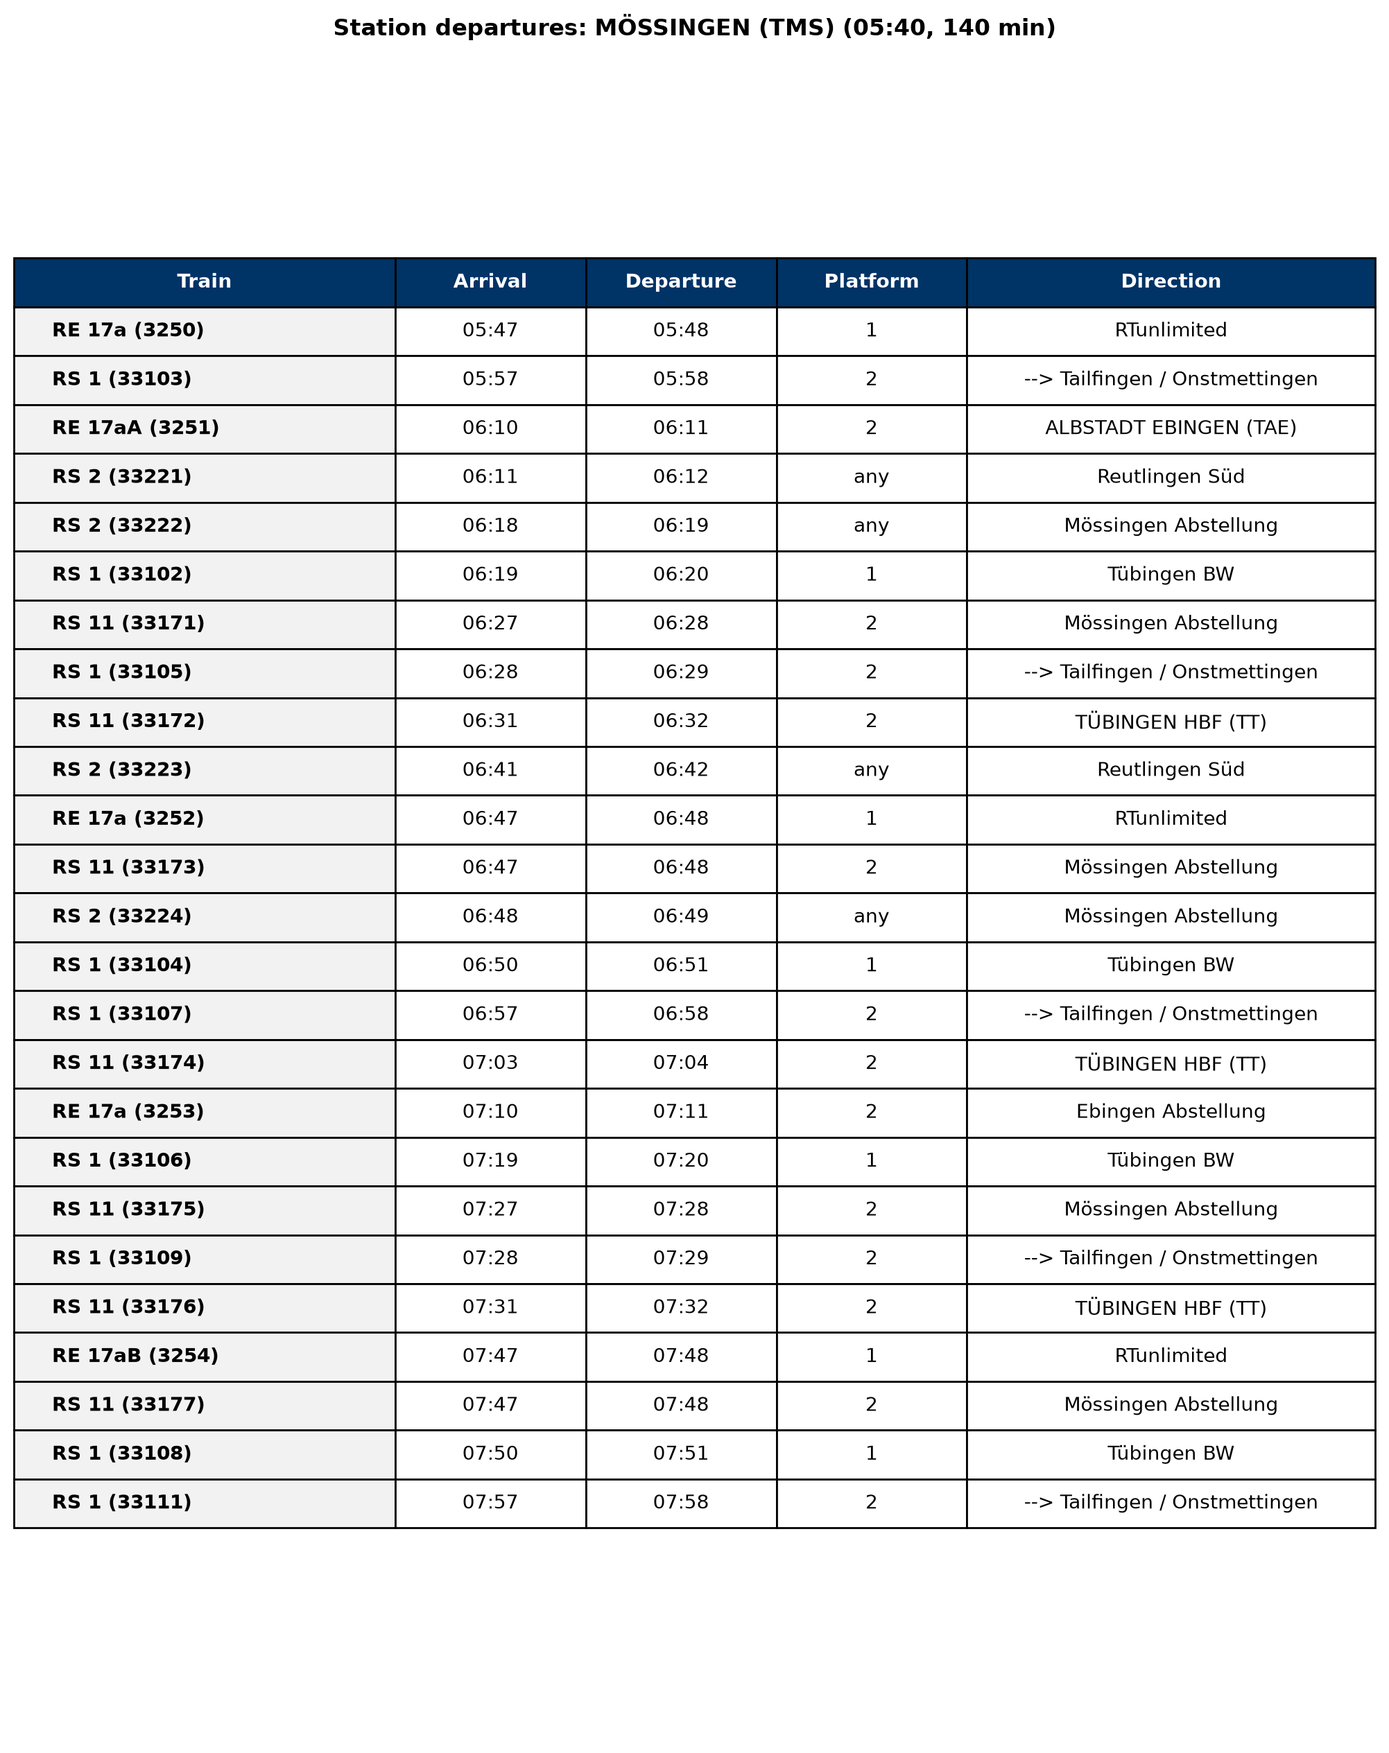
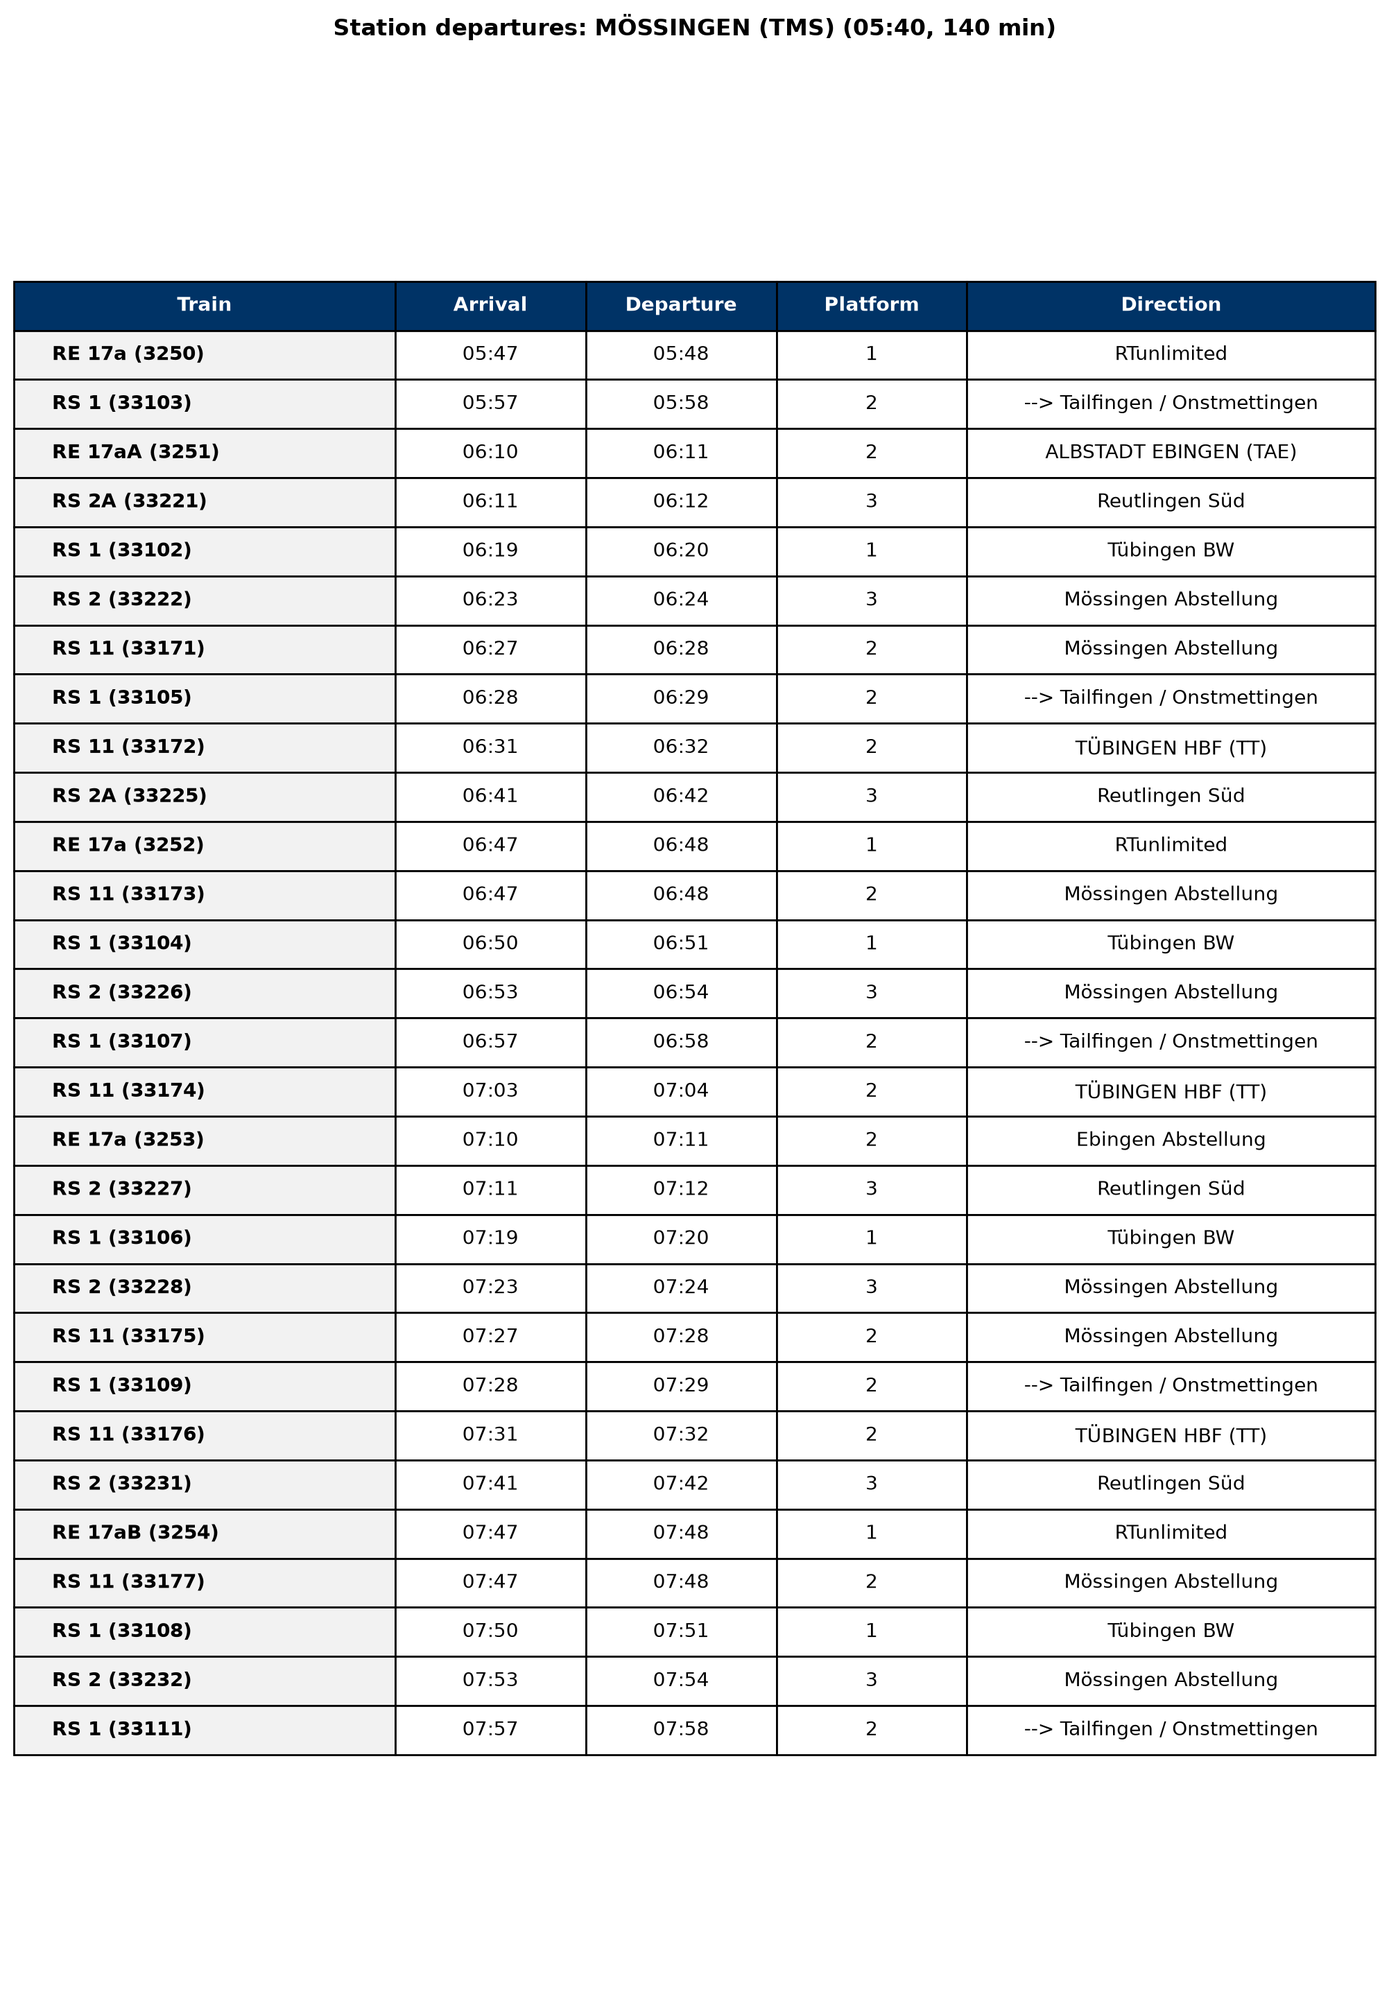
Add more S2 trains and resync them

Changed region(s): [[0.0, 0.125, 0.9905, 0.8747], [0.2476, 0.0, 0.5262, 0.0312], [0.5572, 0.0, 0.7119, 0.0312]]

diff --git a/main.py b/main.py
@@ -128,7 +128,8 @@ RS12_TUEBINGEN_RTS = {
         {"station_id": station_code_to_id("RGA"), "arrival": 2, "departure": 1, "platform": 2},
         {"station_id": station_code_to_id("RALB"), "arrival": 1, "departure": 1, "platform": 2},
         {"station_id": station_code_to_id("RECH"), "arrival": 1, "departure": 1, "platform": 2},
-        {"station_id": station_code_to_id("RTS"), "arrival": 2, "departure": None, "platform": 2},
+        {"station_id": station_code_to_id("RTS"), "arrival": 2, "departure": 1, "platform": 2},
+        {"station_id": station_code_to_id("RTS"), "arrival": 1, "departure": 7, "platform": 3},
     ]
 }
 
@@ -149,7 +150,7 @@ RS12_RTS_TUEBINGEN = {
         {"station_id": station_code_to_id("ROHM"), "arrival": 2, "departure": 1, "platform": 1},
         {"station_id": station_code_to_id("ROHW"), "arrival": 2, "departure": 1, "platform": 1},
         {"station_id": station_code_to_id("RGOO"), "arrival": 4, "departure": 1, "platform": 1},
-        {"station_id": station_code_to_id("RGOM"), "arrival": 1, "departure": 1, "platform": 1},
+        {"station_id": station_code_to_id("RGOM"), "arrival": 1, "departure": 2, "platform": 1},
         {"station_id": station_code_to_id("RGOT"), "arrival": 1, "departure": 1, "platform": 1},
         {"station_id": station_code_to_id("TDUO"), "arrival": 2, "departure": 1, "platform": 1},
         {"station_id": station_code_to_id("TDU"), "arrival": 1, "departure": 1, "platform": 1},
@@ -182,14 +183,16 @@ RS2_RTS_MOESSINGEN = {
         {"station_id": station_code_to_id("NSCH"), "arrival": 2, "departure": 1, "platform": 1},
         {"station_id": station_code_to_id("NMI"), "arrival": 2, "departure": 1, "platform": 1},
         {"station_id": station_code_to_id("NSU"), "arrival": 1, "departure": 1, "platform": 1},
-        {"station_id": station_code_to_id("TMS"), "arrival": 3, "departure": None, "platform": 3},
+        {"station_id": station_code_to_id("TMS"), "arrival": 3, "departure": 3, "platform": 3},
+        {"station_id": station_code_to_id("TMSA"), "arrival": 1, "departure": 0, "platform": 1},
     ]
 }
 
 RS2_MOESSINGEN_RTS = {
     "name": "RS 2",
     "stops": [
-        {"station_id": station_code_to_id("TMS"), "arrival": None, "departure": 1, "platform": 3},
+        {"station_id": station_code_to_id("TMSA"), "arrival": None, "departure": 0, "platform": 1},
+        {"station_id": station_code_to_id("TMS"), "arrival": 1, "departure": 5, "platform": 3},
         {"station_id": station_code_to_id("NSU"), "arrival": 2, "departure": 1, "platform": 2},
         {"station_id": station_code_to_id("NMI"), "arrival": 1, "departure": 1, "platform": 2},
         {"station_id": station_code_to_id("NSCH"), "arrival": 2, "departure": 1, "platform": 2},
@@ -197,6 +200,46 @@ RS2_MOESSINGEN_RTS = {
         {"station_id": station_code_to_id("RGOM"), "arrival": 1, "departure": 1, "platform": 2},
         {"station_id": station_code_to_id("RGOO"), "arrival": 1, "departure": 1, "platform": 1},
         {"station_id": station_code_to_id("ROHW"), "arrival": 4, "departure": 1, "platform": 2},
+        {"station_id": station_code_to_id("ROHM"), "arrival": 1, "departure": 1, "platform": 2},
+        {"station_id": station_code_to_id("ROHO"), "arrival": 2, "departure": 1, "platform": 2},
+        {"station_id": station_code_to_id("RBAK"), "arrival": 2, "departure": 1, "platform": 2},
+        {"station_id": station_code_to_id("RBEM"), "arrival": 2, "departure": 1, "platform": 2},
+        {"station_id": station_code_to_id("RBES"), "arrival": 2, "departure": 1, "platform": 2},
+        {"station_id": station_code_to_id("RBO"), "arrival": 2, "departure": 1, "platform": 2},
+        {"station_id": station_code_to_id("RTW"), "arrival": 1, "departure": 1, "platform": 3},
+        {"station_id": station_code_to_id("RHbfK"), "arrival": 2, "departure": 1, "platform": 21},
+        {"station_id": station_code_to_id("RGA"), "arrival": 2, "departure": 1, "platform": 2},
+        {"station_id": station_code_to_id("RALB"), "arrival": 1, "departure": 1, "platform": 2},
+        {"station_id": station_code_to_id("RECH"), "arrival": 1, "departure": 1, "platform": 2},
+        {"station_id": station_code_to_id("RTS"), "arrival": 2, "departure": None, "platform": 2},
+    ]
+}
+
+RS2_RTS_ROHW = {
+    "name": "RS 2",
+    "stops": [
+        {"station_id": station_code_to_id("RTS"), "arrival": None, "departure": 1, "platform": 1},
+        {"station_id": station_code_to_id("RECH"), "arrival": 2, "departure": 1, "platform": 1},
+        {"station_id": station_code_to_id("RALB"), "arrival": 1, "departure": 1, "platform": 1},
+        {"station_id": station_code_to_id("RGA"), "arrival": 1, "departure": 1, "platform": 1},
+        {"station_id": station_code_to_id("RHbfK"), "arrival": 2, "departure": 1, "platform": 22},
+        {"station_id": station_code_to_id("RTW"), "arrival": 2, "departure": 1, "platform": 4},
+        {"station_id": station_code_to_id("RBO"), "arrival": 1, "departure": 1, "platform": 1},
+        {"station_id": station_code_to_id("RBES"), "arrival": 2, "departure": 1, "platform": 1},
+        {"station_id": station_code_to_id("RBEM"), "arrival": 2, "departure": 1, "platform": 1},
+        {"station_id": station_code_to_id("RBAK"), "arrival": 2, "departure": 1, "platform": 1},
+        {"station_id": station_code_to_id("ROHO"), "arrival": 2, "departure": 1, "platform": 1},
+        {"station_id": station_code_to_id("ROHM"), "arrival": 2, "departure": 1, "platform": 1},
+        {"station_id": station_code_to_id("ROHW"), "arrival": 2, "departure": 1, "platform": 1},
+        {"station_id": station_code_to_id("ROHA"), "arrival": 1, "departure": 0, "platform": 1},
+    ]
+}
+
+RS2_ROHW_RTS = {
+    "name": "RS 2",
+    "stops": [
+        {"station_id": station_code_to_id("ROHA"), "arrival": None, "departure": 0, "platform": 1},
+        {"station_id": station_code_to_id("ROHW"), "arrival": 1, "departure": 4, "platform": 1},
         {"station_id": station_code_to_id("ROHM"), "arrival": 1, "departure": 1, "platform": 2},
         {"station_id": station_code_to_id("ROHO"), "arrival": 2, "departure": 1, "platform": 2},
         {"station_id": station_code_to_id("RBAK"), "arrival": 2, "departure": 1, "platform": 2},
@@ -358,7 +401,7 @@ RE_TUEBINGEN_REUTLINGEN = {
         {"station_id": station_code_to_id("TT"), "arrival": None, "departure": 0},
         {"station_id": station_code_to_id("TKI"), "arrival": 5, "departure": 0, "platform": 2},
         {"station_id": station_code_to_id("RBE"), "arrival": 1, "departure": 0, "platform": 2},
-        {"station_id": station_code_to_id("TRE"), "arrival": 3, "departure": 1, "platform": 2},
+        {"station_id": station_code_to_id("TRE"), "arrival": 3, "departure": 1, "platform": 1},
         {"station_id": station_code_to_id("RTU"), "arrival": 1, "departure": 0, "platform": 1}
     ],
 }
@@ -643,7 +686,8 @@ _S1_TRAINS = [S1_33101, S1_33102, S1_33103, S1_33104, S1_33105, S1_33106, S1_331
 ## S11 Trains
 S11_33171 = Train.from_blueprint(33171, RS11_TUEBINGEN_MOESSINGEN, "RS 11", "6:01", "LPL")
 S11_33171.set_origin(station_code_to_id("TTBW"), 2, platform=1)
-S11_33171.set_ending(station_code_to_id("TMSA"), 1, platform=1)
+S11_33171.change_platform(station_code_to_id("TMS"), 1)
+S11_33171.extend_stop(station_code_to_id("TMS"), 3)
 
 S11_33173 = Train.from_blueprint(33173, RS11_TUEBINGEN_MOESSINGEN, "RS 11", "6:21", "LPL")
 S11_33173.set_origin(station_code_to_id("TTBW"), 2, platform=1)
@@ -651,69 +695,109 @@ S11_33173.set_ending(station_code_to_id("TMSA"), 1, platform=1)
 
 S11_33175 = Train.from_blueprint(33175, RS11_TUEBINGEN_MOESSINGEN, "RS 11", "7:01", "LPL")
 S11_33175.set_origin(station_code_to_id("TTBW"), 2, platform=1)
-S11_33175.set_ending(station_code_to_id("TMSA"), 1, platform=1)
+S11_33175.change_platform(station_code_to_id("TMS"), 1)
+S11_33175.extend_stop(station_code_to_id("TMS"), 3)
 
 S11_33177 = Train.from_blueprint(33177, RS11_TUEBINGEN_MOESSINGEN, "RS 11", "7:21", "LPL")
 S11_33177.set_origin(station_code_to_id("TTBW"), 2, platform=1)
 S11_33177.set_ending(station_code_to_id("TMSA"), 1, platform=1)
 
 S11_33172 = Train.from_blueprint(33172, RS11_MOESSINGEN_TUEBINGEN, "RS 11", "6:31", "LPL")
-S11_33172.set_origin(station_code_to_id("TMSA"), 1, platform=1)
+S11_33172.change_platform(station_code_to_id("TMS"), 1)
+S11_33172.extend_stop(station_code_to_id("TMS"), 1)
+S11_33171.add_leg(S11_33172)
 
 S11_33174 = Train.from_blueprint(33174, RS11_MOESSINGEN_TUEBINGEN, "RS 11", "7:03", "LPL")
 S11_33174.set_origin(station_code_to_id("TMSA"), 1, platform=1)
 
 S11_33176 = Train.from_blueprint(33176, RS11_MOESSINGEN_TUEBINGEN, "RS 11", "7:31", "LPL")
 S11_33176.set_origin(station_code_to_id("TMSA"), 1, platform=1)
+S11_33176.extend_stop(station_code_to_id("TMS"), 1)
+S11_33175.add_leg(S11_33176)
 
 S11_33178 = Train.from_blueprint(33178, RS11_MOESSINGEN_TUEBINGEN, "RS 11", "8:03", "LPL")
 S11_33178.set_origin(station_code_to_id("TMSA"), 1, platform=1)
 
-_S11_TRAINS = [S11_33171, S11_33172, S11_33173, S11_33174, S11_33175, S11_33176, S11_33177, S11_33178]
+_S11_TRAINS = [S11_33171, S11_33173, S11_33174, S11_33175, S11_33177, S11_33178]
 
 ## S12 Trains
 S12_33201 = Train.from_blueprint(33201, RS12_TUEBINGEN_RTS, "RS 12", "5:49", "LPL")
 S12_33201.set_origin(station_code_to_id("TTBW"), 2, platform=1)
-S12_33201.set_ending(station_code_to_id("PFAB"), 10, platform=1)
 
 S12_33203 = Train.from_blueprint(33203, RS12_TUEBINGEN_RTS, "RS 12", "6:49", "LPL")
 S12_33203.set_origin(station_code_to_id("TTBW"), 2, platform=1)
-S12_33203.set_ending(station_code_to_id("PFAB"), 10, platform=1)
 
 S12_33205 = Train.from_blueprint(33205, RS12_TUEBINGEN_RTS, "RS 12", "7:49", "LPL")
 S12_33205.set_origin(station_code_to_id("TTBW"), 2, platform=1)
-S12_33205.set_ending(station_code_to_id("PFAB"), 10, platform=1)
 
-S12_33202 = Train.from_blueprint(33202, RS12_RTS_TUEBINGEN, "RS 12", "5:14", "LPL")
+S12_33202 = Train.from_blueprint(33202, RS12_RTS_TUEBINGEN, "RS 12", "5:13", "LPL")
 S12_33202.set_origin(station_code_to_id("PFAB"), 10, platform=2)
 S12_33202.set_ending(station_code_to_id("TTBW"), 2, platform=1)
 
-S12_33204 = Train.from_blueprint(33204, RS12_RTS_TUEBINGEN, "RS 12", "6:14", "LPL")
+S12_33204 = Train.from_blueprint(33204, RS12_RTS_TUEBINGEN, "RS 12", "6:13", "LPL")
 S12_33204.set_origin(station_code_to_id("PFAB"), 10, platform=2)
 S12_33204.set_ending(station_code_to_id("TTBW"), 2, platform=1)
 
-S12_33206 = Train.from_blueprint(33206, RS12_RTS_TUEBINGEN, "RS 12", "7:14", "LPL")
-S12_33206.set_origin(station_code_to_id("PFAB"), 10, platform=2)
+S12_33206 = Train.from_blueprint(33206, RS12_RTS_TUEBINGEN, "RS 12", "7:13", "LPL")
 S12_33206.set_ending(station_code_to_id("TTBW"), 2, platform=1)
+S12_33206.extend_stop(station_code_to_id("RTS"), 1)
 
 _S12_TRAINS = [S12_33201, S12_33202, S12_33203, S12_33204, S12_33205, S12_33206]
 
 ## S2 Trains
-S2_33221 = Train.from_blueprint(33221, RS2_MOESSINGEN_RTS, "RS 2", "6:10", "LPLPL")
-S2_33221.set_origin(station_code_to_id("TMSA"), 1, platform=1)
+S2_33221 = Train.from_blueprint(33221, RS2_MOESSINGEN_RTS, "RS 2", "6:06", "LPLPL")
+S2_33221.set_ending(station_code_to_id("RTS"), 1, True, platform=3, departure=7)
+S2_33221.add_leg(S12_33206)
 
-S2_33222 = Train.from_blueprint(33222, RS2_RTS_MOESSINGEN, "RS 2", "5:23", "LPLPL")
+S2_33223 = Train.from_blueprint(33223, RS2_ROHW_RTS, "RS 2", "6:42", "LPLPL")
+S2_33223.set_ending(station_code_to_id("RTS"), 1, True, platform=3, departure=7)
+
+S2_33225 = Train.from_blueprint(33225, RS2_MOESSINGEN_RTS, "RS 2", "6:36", "LPLPL")
+S2_33225.set_ending(station_code_to_id("RTS"), 1, True, platform=3, departure=7)
+
+S2_33227 = Train.from_blueprint(33227, RS2_MOESSINGEN_RTS, "RS 2", "7:06", "LPLPL")
+S2_33227.set_ending(station_code_to_id("RTS"), 1, True, platform=3, departure=7)
+
+S2_33229 = Train.from_blueprint(33229, RS2_ROHW_RTS, "RS 2", "7:42", "LPLPL")
+S2_33229.set_ending(station_code_to_id("RTS"), 1, True, platform=3, departure=7)
+
+S2_33231 = Train.from_blueprint(33231, RS2_MOESSINGEN_RTS, "RS 2", "7:36", "LPLPL")
+S2_33231.set_ending(station_code_to_id("RTS"), 1, True, platform=3, departure=7)
+
+S2_33222 = Train.from_blueprint(33222, RS2_RTS_MOESSINGEN, "RS 2", "5:28", "LPLPL")
 S2_33222.set_origin(station_code_to_id("PFAB"), 10, platform=2)
-S2_33222.set_ending(station_code_to_id("TMSA"), 1, platform=1)
 
-S2_33223 = Train.from_blueprint(33223, RS2_MOESSINGEN_RTS, "RS 2", "6:40", "LPLPL")
-S2_33223.set_origin(station_code_to_id("TMSA"), 1, platform=1)
-
-S2_33224 = Train.from_blueprint(33224, RS2_RTS_MOESSINGEN, "RS 2", "5:53", "LPLPL")
+S2_33224 = Train.from_blueprint(33224, RS2_RTS_ROHW, "RS 2", "5:43", "LPLPL")
 S2_33224.set_origin(station_code_to_id("PFAB"), 10, platform=2)
-S2_33224.set_ending(station_code_to_id("TMSA"), 1, platform=1)
 
-_S2_TRAINS = [S2_33221, S2_33222, S2_33223, S2_33224]
+S2_33226 = Train.from_blueprint(33226, RS2_RTS_MOESSINGEN, "RS 2", "5:58", "LPLPL")
+S2_33226.set_origin(station_code_to_id("PFAB"), 10, platform=2)
+
+S2_33228 = Train.from_blueprint(33228, RS2_RTS_MOESSINGEN, "RS 2", "6:28", "LPLPL")
+S2_33228.set_origin(station_code_to_id("PFAB"), 10, platform=2)
+
+S2_33230 = Train.from_blueprint(33230, RS2_RTS_ROHW, "RS 2", "6:43", "LPLPL")
+S2_33230.set_origin(station_code_to_id("PFAB"), 10, platform=2)
+
+S2_33232 = Train.from_blueprint(33232, RS2_RTS_MOESSINGEN, "RS 2", "6:58", "LPLPL")
+S2_33232.extend_stop(station_code_to_id("RTS"), 1)
+S12_33201.add_leg(S2_33232)
+
+S2_33234 = Train.from_blueprint(33234, RS2_RTS_MOESSINGEN, "RS 2", "7:28", "LPLPL")
+S2_33234.extend_stop(station_code_to_id("RTS"), 1)
+S2_33223.add_leg(S2_33234)
+
+S2_33236 = Train.from_blueprint(33236, RS2_RTS_ROHW, "RS 2", "7:44", "LPLPL")
+S2_33236.extend_stop(station_code_to_id("RTS"), 1)
+S2_33225.add_leg(S2_33236)
+
+S2_33238 = Train.from_blueprint(33238, RS2_RTS_MOESSINGEN, "RS 2", "7:58", "LPLPL")
+S2_33238.extend_stop(station_code_to_id("RTS"), 1)
+S12_33203.add_leg(S2_33238)
+
+
+_S2_TRAINS = [S2_33221, S2_33222, S2_33223, S2_33224, S2_33225, S2_33226, S2_33227,
+              S2_33228, S2_33229, S2_33230, S2_33231, S2_33232]
 
 #################################
 ############# TRAINS #############
@@ -736,18 +820,21 @@ def main():
     if timetable_df.empty:
         print(f"The worksheet '{selected_section}' does not yet contain any timetable data.")
         return
-    #plot_route_timetable(timetable_df, selected_section, "06:00", 140)
-
+    #plot_route_timetable(timetable_df, selected_section, "05:40", 140)
+    plot_route_timetable(timetable_df, "TMS - RTS", "05:40", 140)
     #generate_line_timetable(TRAINS, selected_section, "06:00", 140)
-    generate_line_timetable(TRAINS, "Tübingen - Mössingen", "06:00", 140)
-    generate_line_timetable(TRAINS, "Mössingen - Tübingen", "5:40", 140)
-    print(S12_33201.timetable())
+    #generate_line_timetable(TRAINS, "RT Hbf K / B - RT Süd", "05:40", 140)
+    #generate_line_timetable(TRAINS, "TMS - RTS", "5:40", 140)
     print(S2_33221.timetable())
-    print(S11_33171.timetable())
     print(S2_33222.timetable())
-    plot_station_departures(TRAINS, "TMS", "05:40", 140)
+    print(S2_33223.timetable())
+    print(S2_33224.timetable())
+    print(S2_33225.timetable())
+    print(S12_33201.timetable())
+    #plot_station_departures(TRAINS, "RTS", "05:40", 140)
+    #plot_station_departures(TRAINS, "TMS", "05:40", 140)
 
-    #export_trains_txt(TRAINS)
+    export_trains_txt(TRAINS)
 
 
 if __name__ == "__main__":

diff --git a/diagrams.py b/diagrams.py
@@ -68,7 +68,10 @@ def _filter_section_dataframe(
         for train_number, train_data in section_stations.groupby(
             "Train number", sort=False
         ):
-            positions = train_data["_section_position"].tolist()
+            positions = []
+            for position in train_data["_section_position"]:
+                if not positions or position != positions[-1]:
+                    positions.append(position)
             is_forward = all(
                 earlier < later for earlier, later in zip(positions, positions[1:])
             )

diff --git a/RSNA.md b/RSNA.md
@@ -594,11 +594,52 @@ TAT -> TAE (1min) -> TAEM (1min) -> TAEW (1min) -> TALT (3min) -> TALO (2min, kn
 ### RS 12 (nach RTS)
 - Abfahrt in TT immer :50 (Contract :49)
 - Origin TTBW (for now, aus ggf. Leerfahrt von TTG und S31? c:)
-- Ending ist tough weil noch sonst keine Contracts, sollte aber eig einfach Wenden (sehr wahrscheinlich aber auf S2)
+-[x] todo: Ending im Blueprint auf RTS platform 3, stopping=True, platform=3, depart=7
+- Add leg: S2 (Start + 1,2h :00) nach TMS
 
 ### RS 12 (nach TT)
-- Abfahrt in RTS immer :15 (Contract: 14)
+- Abfahrt in RTS immer :14 (Contract: 13)
 - Ending TTBW (ggf. weiter als Leerfahrt nach TTG und dann S31?)
+
+### RS 2 (nach TMS)
+- 20min Takt in HVZ
+- Abfahrten in RTS :00 :30, :45 (bis Ohmenhausen West) (Contract :03, :23, :43)
+  - abseits von HVZ 2x Fahrten (Zwischentakt um :45 fällt weg)
+  - in HVZ zusätzlich RS 12 um :16 (Contract :14)^
+- S2 in TMS wenden auf S2 nach RTS (kann auch theoretisch am Bahnsteig bleiben, Platz is)
+
+### RS 2 (nach RTS)
+- 20min Takt in HVZ
+- Abfahrten in TMS :12 (Contract :10), :42 (RTS Gl. 3 an :05), Ohmenhausen West Zwischentakt um :47 (Contract :45, RTS Gl. 3 an :20)
+  - S12 Ohmenhausen West :17 für cleanen 15-min Takt (RTS Gl. 3 an :50)
+#### RS 2 :12 in TMS
+- Contract Start :06
+- todo: origin im blueprint festlegen! (dann ggf. contract start anpassen!)
+- Ending auf RTS platform 3, stopping=True, platform=3, depart=7
+- Add leg: S12 (initial Contract-Start + 1h :16) nach TT
+  - außerhalb HVZ auf nächste S2, dann depart=22
+#### RS 2 :47 in ROHW
+- Contract Start :42
+- todo: origin im blueprint festlegen (dann ggf. contract start anpassen!)
+- todo: ending im blueprint RTS platform 3, stopping=True, platform=3, depart=7
+- Add leg: S2 (initial Contract-Start +1h :30) nach TMS
+#### RS 2 :42 in TMS
+- Contract Start :36
+- todo: origin im blueprint festlegen (contract start!)
+- Ending auf RTS platform 3, stopping=True, platform=3, depart=7
+- Add leg: S2 (+1h :45) bis ROHW
+
+----
+
+### Concat:
+S2 (:12 in TMS ab)  -> RTS Gl. 3 an :05 ab :12  -> S12 (RTS Gl. 2 ab :16) bis TT
+S12 (:17 in ROHW)   -> RTS Gl. 3 an :50 ab :57  -> S2 (RTS Gl. 2 ab :00) bis TMS
+S2 (:42 in TMS ab)  -> RTS Gl. 3 an :35 ab :42  -> S2 (RTS Gl. 2 ab :45) bis ROHW
+S2 (:47 in ROHW)    -> RTS Gl. 3 an :20 ab :27  -> S2 (RTS Gl. 2 ab :30) bis TMS
+ -> in TMS für Übersicht in die Abstellung
+ -> Wenn keine HVZ, S2 wendet mit 22min Wendezeit auf nächste S2, Rest fährt Richtung Hortense
+
+
 
 #### RE 17a (nach Albstadt)
 
